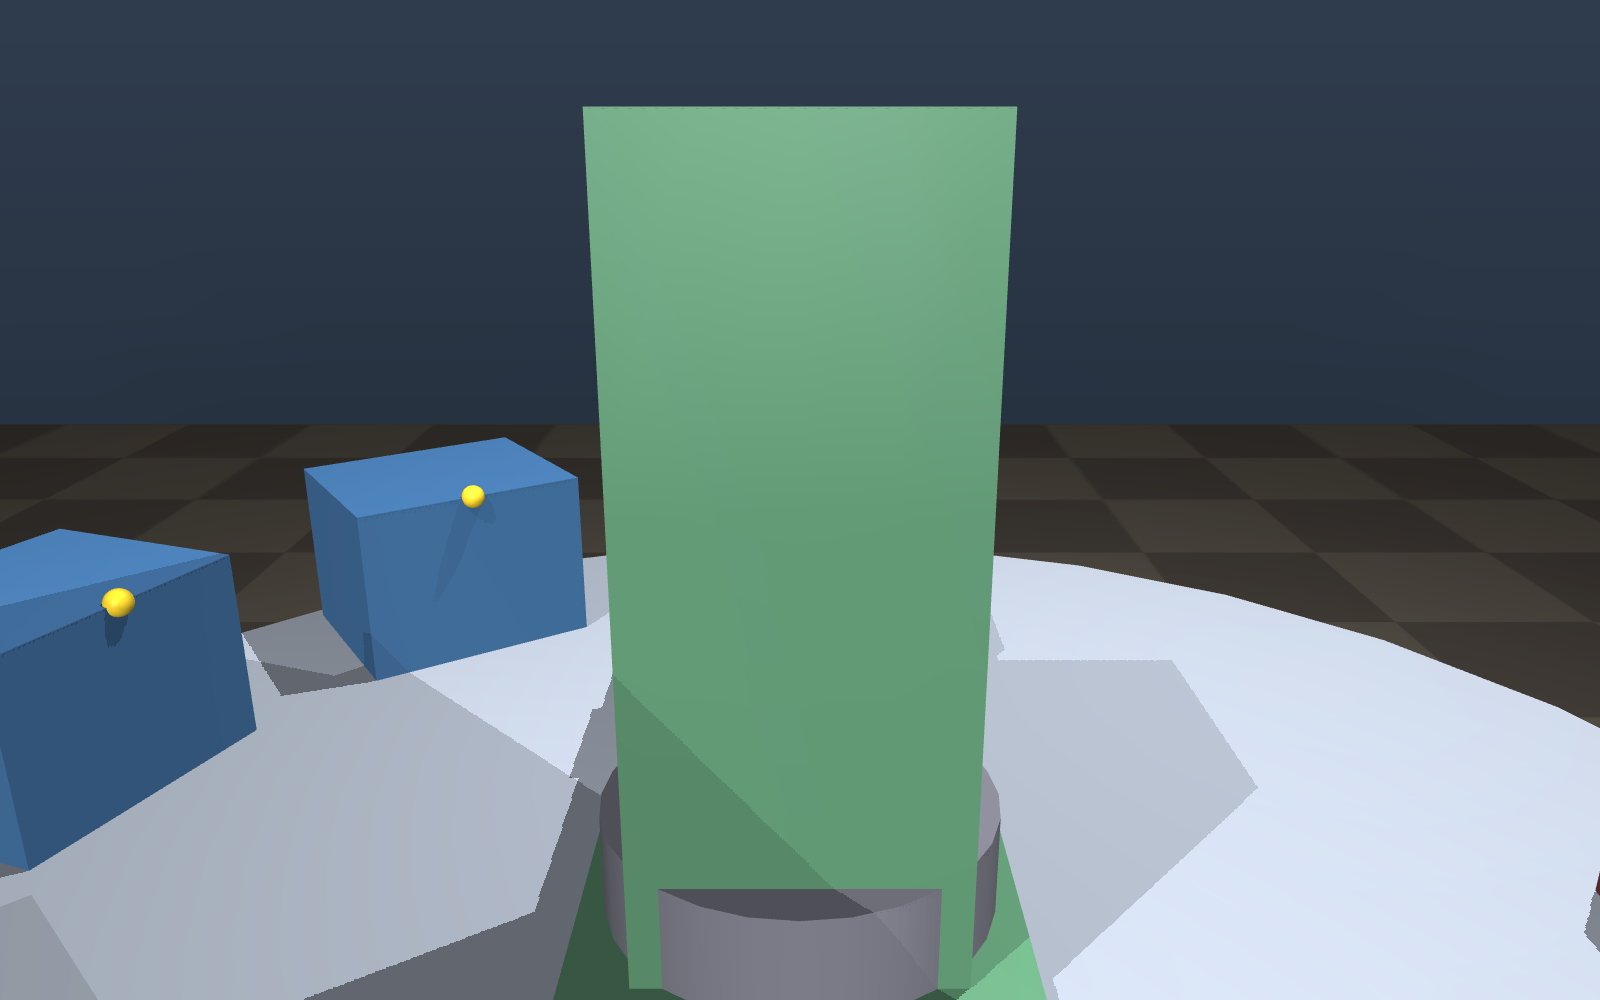
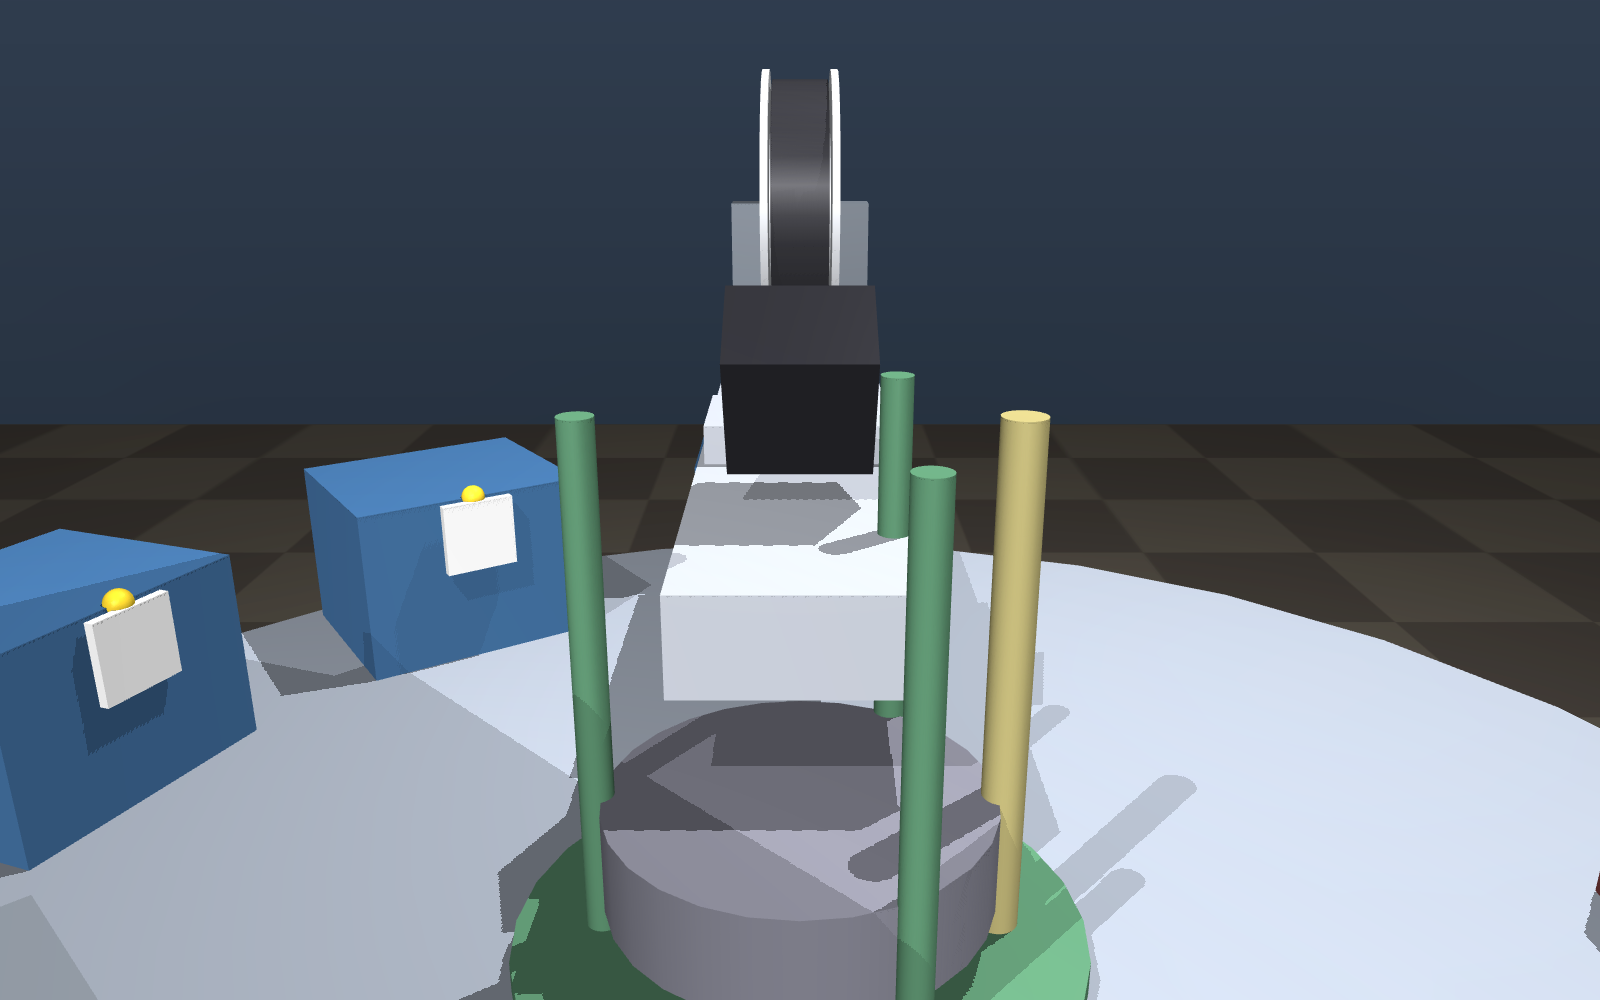
Spool, hanger, arm camera and three-post Z stage in the rough-in
Ribbon and spool now in layout.py. The wire ships as a loose roll, not on a
rigid spool, so the spool is ours to design: printed, 110mm OD, 31mm wide,
8mm bore matching the Z-stage rod stock. spool_capacity_m() computes 17.9m
against a 15.24m stock roll — takes a whole roll with margin.

Ribbon pitch corrected to ~1.45mm from the ~2.5mm in cell-design.md, which
was the connector cavity pitch borrowed by mistake.

Arm camera added, riding the RADIAL carriage — deliberately not the wrist,
which flips 180 degrees. Reuses TendWright's fleet hardware and its
cameras.py/camserve.py pattern (identity by USB port path, because device
numbering shuffles and the ELP boards share a serial). Each station gets an
AprilTag plate, so the camera measures actual pose vs commanded at every
stop — turning droop and backlash from assumed-repeatable into measured.

Honest limit recorded: tag pose at this distance is ~±0.5-1mm. Good for
registration and presence, not for insertion accuracy.

Z stage re-rendered as three guide posts plus one OFF-AXIS leadscrew, which
is what the BOM actually specifies. The off-axis screw is the whole trick —
it leaves the rotary axis at the platform centre unobstructed, which a single
coaxial rail cannot do. Station AprilTags moved to the face rather than
buried inside the station body.

The arm camera at 28g is a heavier payload than the 16.4g longest cable.

Claude-Session: https://claude.ai/code/session_01Sxn7rEKV6RMKkTdybFtmk7

Changed region(s): [[0.1875, 0.062, 0.7812, 1.0], [0.0312, 0.589, 0.125, 0.744]]

diff --git a/sim/build_scene.py b/sim/build_scene.py
@@ -75,6 +75,16 @@ def _station_bodies() -> str:
             f'euler="0 0 {math.radians(theta):.6g}" material="{mat}" '
             f'contype="0" conaffinity="0"/>'
         )
+        # AprilTag facing the pivot — what the arm camera registers against.
+        tx, ty = _polar(float(L.ARM_R0) - 3.0, theta)
+        tz = deck_top + STATION_BODY_HEIGHT * 0.78
+        out.append(
+            f'    <geom name="{name.lower()}_tag" type="box" '
+            f'pos="{_fmt(tx * MM, ty * MM, tz * MM)}" '
+            f'size="{_fmt(0.0015, float(L.STATION_TAG_SIZE) / 2 * MM, float(L.STATION_TAG_SIZE) / 2 * MM)}" '
+            f'euler="0 0 {math.radians(theta):.6g}" material="tag_mat" '
+            f'contype="0" conaffinity="0"/>'
+        )
         # A short marker at the actual work point on the bolt circle.
         wx, wy = _polar(float(L.ARM_R0), theta)
         out.append(
@@ -125,6 +135,103 @@ def _press_body() -> str:
       size="0.006" rgba="1 0.25 0.2 1"/>"""
 
 
+Z_POST_RADIUS = 46.0  # posts sit on this circle around the pivot
+
+
+def _z_posts(deck_top: float, z_stroke: float) -> str:
+    """Three guide posts plus one off-axis leadscrew.
+
+    A single coaxial rail cannot work — the rotary axis needs the space the
+    rail wants. Moving the screw off-axis and guiding on posts leaves the
+    platform centre clear.
+    """
+    top = deck_top + z_stroke + 30.0
+    parts: list[str] = []
+    for i, angle in enumerate((90.0, 210.0, 330.0)):
+        px, py = _polar(Z_POST_RADIUS, angle)
+        parts.append(
+            f'    <geom name="z_post_{i}" type="cylinder" '
+            f'pos="{_fmt(px * MM, py * MM, (deck_top + (top - deck_top) / 2) * MM)}" '
+            f'size="0.004 {(top - deck_top) / 2 * MM:.6g}" '
+            f'material="zstage_mat" contype="0" conaffinity="0"/>'
+        )
+    sx, sy = _polar(Z_POST_RADIUS, 270.0)
+    parts.append(
+        f'    <geom name="z_leadscrew" type="cylinder" '
+        f'pos="{_fmt(sx * MM, sy * MM, (deck_top + (top - deck_top) / 2) * MM)}" '
+        f'size="0.005 {(top - deck_top) / 2 * MM:.6g}" '
+        f'material="screw_mat" contype="0" conaffinity="0"/>'
+    )
+    parts.append(
+        f'    <geom name="z_motor" type="box" '
+        f'pos="{_fmt(sx * MM, sy * MM, (deck_top - 22) * MM)}" '
+        f'size="0.021 0.021 0.020" material="motor_mat" '
+        f'contype="0" conaffinity="0"/>'
+    )
+    return "\n".join(parts)
+
+
+def _spool_and_hanger() -> str:
+    """S1's printed spool + hanger, off-deck outboard of station 1.
+
+    The ribbon ships as a loose roll, so the spool is our design: 8 mm bore to
+    match the Z-stage rod stock, sized to take a whole 50 ft roll.
+    """
+    deck_top = float(L.DECK_ABOVE_BENCH) + float(L.DECK_THICKNESS)
+    theta = float(L.STATION_ANGLES["S1_FEED"])
+    r = float(L.ARM_R0) + float(L.SPOOL_RADIAL_OFFSET)
+    x, y = _polar(r, theta)
+    z = deck_top + float(L.SPOOL_AXLE_HEIGHT)
+
+    # Spool axis is tangential, so ribbon pays off radially toward the pivot.
+    axis_euler = f"{math.pi / 2:.6g} 0 {math.radians(theta):.6g}"
+    half_w = float(L.SPOOL_INNER_WIDTH) / 2.0
+    fl = float(L.SPOOL_FLANGE_T)
+
+    parts: list[str] = []
+    parts.append(
+        f'    <geom name="spool_hub" type="cylinder" pos="{_fmt(x * MM, y * MM, z * MM)}" '
+        f'size="{_fmt(float(L.SPOOL_HUB_R) * MM, half_w * MM)}" euler="{axis_euler}" '
+        f'material="spool_mat" contype="0" conaffinity="0"/>'
+    )
+    # Wound ribbon, shown at full stock.
+    parts.append(
+        f'    <geom name="spool_ribbon" type="cylinder" pos="{_fmt(x * MM, y * MM, z * MM)}" '
+        f'size="{_fmt((float(L.SPOOL_FLANGE_R) - 4.0) * MM, (half_w - 1.0) * MM)}" '
+        f'euler="{axis_euler}" material="ribbon_mat" contype="0" conaffinity="0"/>'
+    )
+    for sign, tag in ((1.0, "a"), (-1.0, "b")):
+        ox, oy = _polar(r, theta)
+        # offset along the spool axis (tangential direction)
+        ax, ay = -math.sin(math.radians(theta)), math.cos(math.radians(theta))
+        px = ox + ax * sign * (half_w + fl / 2.0)
+        py = oy + ay * sign * (half_w + fl / 2.0)
+        parts.append(
+            f'    <geom name="spool_flange_{tag}" type="cylinder" '
+            f'pos="{_fmt(px * MM, py * MM, z * MM)}" '
+            f'size="{_fmt(float(L.SPOOL_FLANGE_R) * MM, fl / 2 * MM)}" euler="{axis_euler}" '
+            f'material="spool_mat" contype="0" conaffinity="0"/>'
+        )
+    # Hanger upright carrying the 8 mm axle.
+    hx, hy = _polar(r + 20.0, theta)
+    parts.append(
+        f'    <geom name="spool_hanger" type="box" '
+        f'pos="{_fmt(hx * MM, hy * MM, (deck_top + float(L.SPOOL_AXLE_HEIGHT) / 2) * MM)}" '
+        f'size="{_fmt(0.008, 0.030, float(L.SPOOL_AXLE_HEIGHT) / 2 * MM)}" '
+        f'euler="0 0 {math.radians(theta):.6g}" material="hanger_mat" '
+        f'contype="0" conaffinity="0"/>'
+    )
+    # Dancer arm — passive tension, and its flag is the spool-empty detect.
+    dx, dy = _polar(r - 40.0, theta)
+    parts.append(
+        f'    <geom name="dancer_arm" type="capsule" '
+        f'fromto="{_fmt(dx * MM, dy * MM, (deck_top + 40) * MM)} '
+        f'{_fmt((dx - float(L.DANCER_ARM_LENGTH) * 0.7) * MM, dy * MM, (deck_top + 95) * MM)}" '
+        f'size="0.005" material="hanger_mat" contype="0" conaffinity="0"/>'
+    )
+    return "\n".join(parts)
+
+
 def build_mjcf() -> str:
     deck_z = float(L.DECK_ABOVE_BENCH)
     deck_top = deck_z + float(L.DECK_THICKNESS)
@@ -167,6 +274,13 @@ def build_mjcf() -> str:
     <material name="rotor_mat" rgba="0.50 0.50 0.55 1"/>
     <material name="arm_mat" rgba="0.72 0.74 0.78 1"/>
     <material name="comb_mat" rgba="0.90 0.85 0.30 1"/>
+    <material name="spool_mat" rgba="0.85 0.86 0.88 1"/>
+    <material name="ribbon_mat" rgba="0.20 0.20 0.22 1"/>
+    <material name="hanger_mat" rgba="0.45 0.48 0.52 1"/>
+    <material name="camera_mat" rgba="0.15 0.15 0.17 1"/>
+    <material name="tag_mat" rgba="0.97 0.97 0.97 1"/>
+    <material name="screw_mat" rgba="0.72 0.68 0.45 1"/>
+    <material name="motor_mat" rgba="0.20 0.22 0.26 1"/>
   </asset>
 
   <worldbody>
@@ -189,16 +303,22 @@ def build_mjcf() -> str:
 
 {_station_bodies()}
 
-    <!-- Z stage: fixed column. Carries the whole rotating assembly. -->
-    <geom name="z_column" type="box" pos="0 0 {(deck_top + z_stroke / 2) * MM:.6g}"
-      size="0.035 0.035 {(deck_top + z_stroke) / 2 * MM:.6g}"
-      material="zstage_mat" contype="0" conaffinity="0"/>
+    <!-- S1's spool + hanger + dancer, off-deck outboard of station 1. -->
+{_spool_and_hanger()}
+
+    <!-- Z stage: platform on three guide posts, driven by ONE OFF-AXIS
+         leadscrew. The off-axis screw is the whole trick — it leaves the
+         rotary axis at the platform centre unobstructed, which a single
+         coaxial rail cannot do. T8 trapezoidal, so it self-locks and an
+         E-stop will not drop the arm. -->
+{_z_posts(deck_top, z_stroke)}
 
     <!-- ============ the moving assembly ============ -->
     <body name="z_carriage" pos="0 0 {deck_top * MM:.6g}">
       <joint name="Z" type="slide" axis="0 0 1" range="0 {z_stroke * MM:.6g}"
         damping="40"/>
-      <geom name="z_carriage_g" type="box" pos="0 0 0" size="0.05 0.05 0.018"
+      <geom name="z_platform" type="cylinder" pos="0 0 0"
+        size="{Z_POST_RADIUS * 1.45 * MM:.6g} 0.008"
         material="zstage_mat" contype="0" conaffinity="0"/>
 
       <body name="rotor" pos="0 0 0.018">
@@ -221,6 +341,19 @@ def build_mjcf() -> str:
             <geom name="radial_carriage" type="box" pos="0 0 0.014"
               size="0.020 0.028 0.010" material="arm_mat"
               contype="0" conaffinity="0"/>
+            <!-- Arm camera. Rides the RADIAL carriage, deliberately NOT the
+                 wrist — the wrist flips 180 degrees and the camera must not.
+                 Looks radially outward and down at the station work point;
+                 registers against each station's AprilTag. -->
+            <geom name="arm_camera" type="box"
+              pos="{-float(L.CAMERA_BACK_OFFSET) * MM:.6g} 0 {float(L.CAMERA_UP_OFFSET) * MM:.6g}"
+              size="{_fmt(float(L.CAMERA_DEPTH) / 2 * MM, float(L.CAMERA_BOARD) / 2 * MM, float(L.CAMERA_BOARD) / 2 * MM)}"
+              euler="0 {math.radians(float(L.CAMERA_TILT)):.6g} 0"
+              material="camera_mat" contype="0" conaffinity="0"/>
+            <camera name="arm_cam"
+              pos="{-float(L.CAMERA_BACK_OFFSET) * MM:.6g} 0 {float(L.CAMERA_UP_OFFSET) * MM:.6g}"
+              euler="0 {math.radians(90.0 + float(L.CAMERA_TILT)):.6g} {-math.pi / 2:.6g}"
+              fovy="48"/>
 
             <body name="cross" pos="0 0 0">
               <joint name="S" type="slide" axis="0 1 0"

diff --git a/sim/layout.py b/sim/layout.py
@@ -205,6 +205,73 @@ ARM_WIDTH = _d(60.0, ESTIMATED, "MGN12 carriage width", "ARM_WIDTH")
 
 
 # ---------------------------------------------------------------------------
+# 4b. Arm-mounted camera (Kyle 2026-07-26)
+# ---------------------------------------------------------------------------
+# One camera rides the arm and looks at whichever station it faces. Two jobs:
+#   1. Step-readiness / operation verification (did the slit happen, is the
+#      ribbon gripped, are the conductors fanned).
+#   2. Station registration against an AprilTag at each stop — which turns
+#      droop, detent error and belt backlash from assumed-repeatable into
+#      measured-and-corrected.
+#
+# Realistic accuracy for tag36h11 pose at this working distance with a 3.6 mm
+# lens is ~+/-0.5-1 mm. Good enough for registration and presence; NOT good
+# enough for insertion. Sub-mm still comes from mechanical repeatability plus
+# the funnel capture window.
+#
+# Hardware reuses TendWright's fleet: ELP-USBFHD01M-L36, 1920x1080, and the
+# cameras.py / camserve.py stack (identity by USB port path).
+
+CAMERA_BOARD = _d(38.0, ESTIMATED, "ELP-USBFHD01M board", "CAMERA_BOARD")
+CAMERA_DEPTH = _d(30.0, ESTIMATED, "board + M12 lens", "CAMERA_DEPTH")
+CAMERA_MASS_G = _d(28.0, ESTIMATED, "ELP board + lens", "CAMERA_MASS_G")
+
+# Mounted behind and above the comb, looking radially outward and down at the
+# station work point. Offsets are from the comb.
+CAMERA_BACK_OFFSET = _d(55.0, PLACEHOLDER, "unvalidated framing", "CAMERA_BACK_OFFSET")
+CAMERA_UP_OFFSET = _d(45.0, PLACEHOLDER, "unvalidated framing", "CAMERA_UP_OFFSET")
+CAMERA_TILT = _d(-30.0, PLACEHOLDER, "unvalidated framing", "CAMERA_TILT")
+
+# AprilTag at each station, tag36h11. TendWright prints these at 40 mm.
+STATION_TAG_SIZE = _d(25.0, ESTIMATED, "scaled from TendWright 40mm", "STATION_TAG_SIZE")
+
+
+# ---------------------------------------------------------------------------
+# 4c. Ribbon and spool
+# ---------------------------------------------------------------------------
+# CORRECTION 2026-07-26: cell-design.md gives ribbon pitch as ~2.5 mm. That is
+# the CONNECTOR cavity pitch borrowed by mistake. Derived from 22 AWG / 60 cores
+# x 0.08 mm / 1.4 mm OD, the real conductor pitch is ~1.4-1.5 mm. Consequence:
+# the webs sit at +/-0.7 mm from centreline, so S2's slitting blades are finer
+# and closer together than the doc implies. MEASURE ON ARRIVAL before cutting
+# any tooling.
+
+RIBBON_CONDUCTOR_OD = _d(1.4, ESTIMATED, "vendor spec", "RIBBON_CONDUCTOR_OD")
+RIBBON_PITCH = _d(1.45, ESTIMATED, "derived, was wrongly 2.5", "RIBBON_PITCH")
+RIBBON_WIDTH = _d(4.5, ESTIMATED, "3 x OD + webs", "RIBBON_WIDTH")
+RIBBON_THICKNESS = _d(1.4, ESTIMATED, "= conductor OD", "RIBBON_THICKNESS")
+RIBBON_LENGTH_STOCK = _d(15240.0, COMMITTED, "50 ft spool", "RIBBON_LENGTH_STOCK")
+RIBBON_MASS_PER_M = _d(16.4, COMMITTED, "250 g / 50 ft", "RIBBON_MASS_PER_M")
+
+# The wire ships as a LOOSE ROLL, not on a rigid spool — so the spool is ours
+# to design. Sized in spool_capacity_m() below; printed, 8 mm bore to match the
+# hardened rod stock already on the BOM for the Z stage.
+SPOOL_HUB_R = _d(30.0, ESTIMATED, "printable, min bend radius", "SPOOL_HUB_R")
+SPOOL_FLANGE_R = _d(55.0, ESTIMATED, "capacity + margin", "SPOOL_FLANGE_R")
+SPOOL_INNER_WIDTH = _d(25.0, ESTIMATED, "5 wraps of 4.5mm ribbon", "SPOOL_INNER_WIDTH")
+SPOOL_FLANGE_T = _d(3.0, ESTIMATED, "printed stiffness", "SPOOL_FLANGE_T")
+SPOOL_BORE = _d(8.0, COMMITTED, "matches Z-stage rod stock", "SPOOL_BORE")
+
+# The spool hangs outboard of S1, off-deck, on a printed bracket.
+SPOOL_AXLE_HEIGHT = _d(150.0, PLACEHOLDER, "above deck", "SPOOL_AXLE_HEIGHT")
+SPOOL_RADIAL_OFFSET = _d(90.0, PLACEHOLDER, "outboard of S1", "SPOOL_RADIAL_OFFSET")
+
+# Dancer arm: passive payoff at constant light tension; its flag doubles as the
+# spool-empty detect.
+DANCER_ARM_LENGTH = _d(70.0, ESTIMATED, "sets tension travel", "DANCER_ARM_LENGTH")
+
+
+# ---------------------------------------------------------------------------
 # 5. The Z stage
 # ---------------------------------------------------------------------------
 # Commodity ballscrew linear module (SFU1605 + dual rails + NEMA 17/23).
@@ -281,6 +348,33 @@ def z_stage_choice() -> float:
         if stroke >= need:
             return stroke
     return Z_STAGE_STOCK_STROKES[-1]
+
+
+def spool_capacity_m(packing: float = 0.80) -> float:
+    """How much ribbon the printed spool holds, in metres.
+
+    Wound flat: each wrap builds RIBBON_THICKNESS radially, and
+    SPOOL_INNER_WIDTH / RIBBON_WIDTH wraps sit side by side per layer.
+    """
+    wraps_per_layer = math.floor(float(SPOOL_INNER_WIDTH) / float(RIBBON_WIDTH))
+    layers = math.floor(
+        (float(SPOOL_FLANGE_R) - float(SPOOL_HUB_R)) / float(RIBBON_THICKNESS)
+    )
+    total_mm = 0.0
+    for i in range(layers):
+        r = float(SPOOL_HUB_R) + (i + 0.5) * float(RIBBON_THICKNESS)
+        total_mm += wraps_per_layer * 2.0 * math.pi * r
+    return total_mm * packing / 1000.0
+
+
+def spool_holds_stock() -> bool:
+    """Does the spool take a whole 50 ft roll?"""
+    return spool_capacity_m() >= float(RIBBON_LENGTH_STOCK) / 1000.0
+
+
+def cable_mass_g(length_mm: float) -> float:
+    """Mass of a finished cable — the arm's actual payload."""
+    return float(RIBBON_MASS_PER_M) * length_mm / 1000.0
 
 
 def press_centre_distance() -> float:
